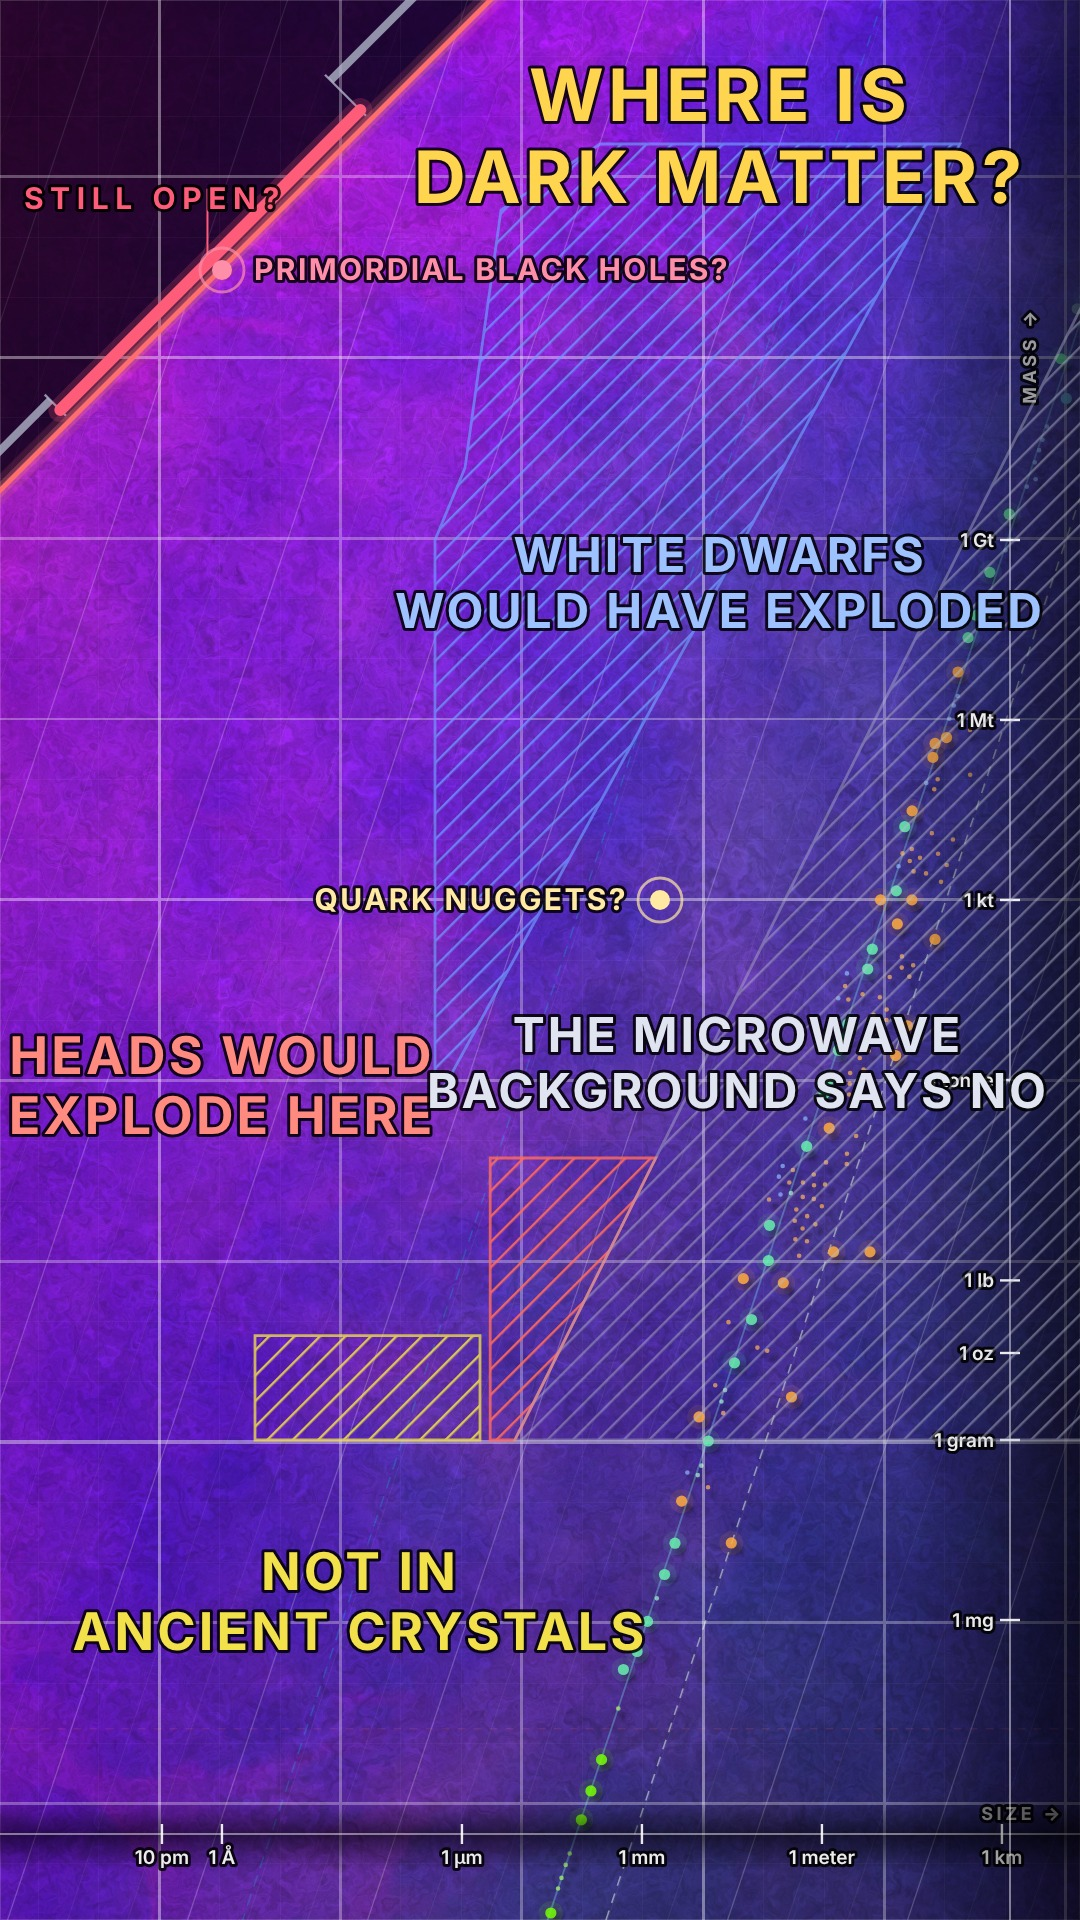
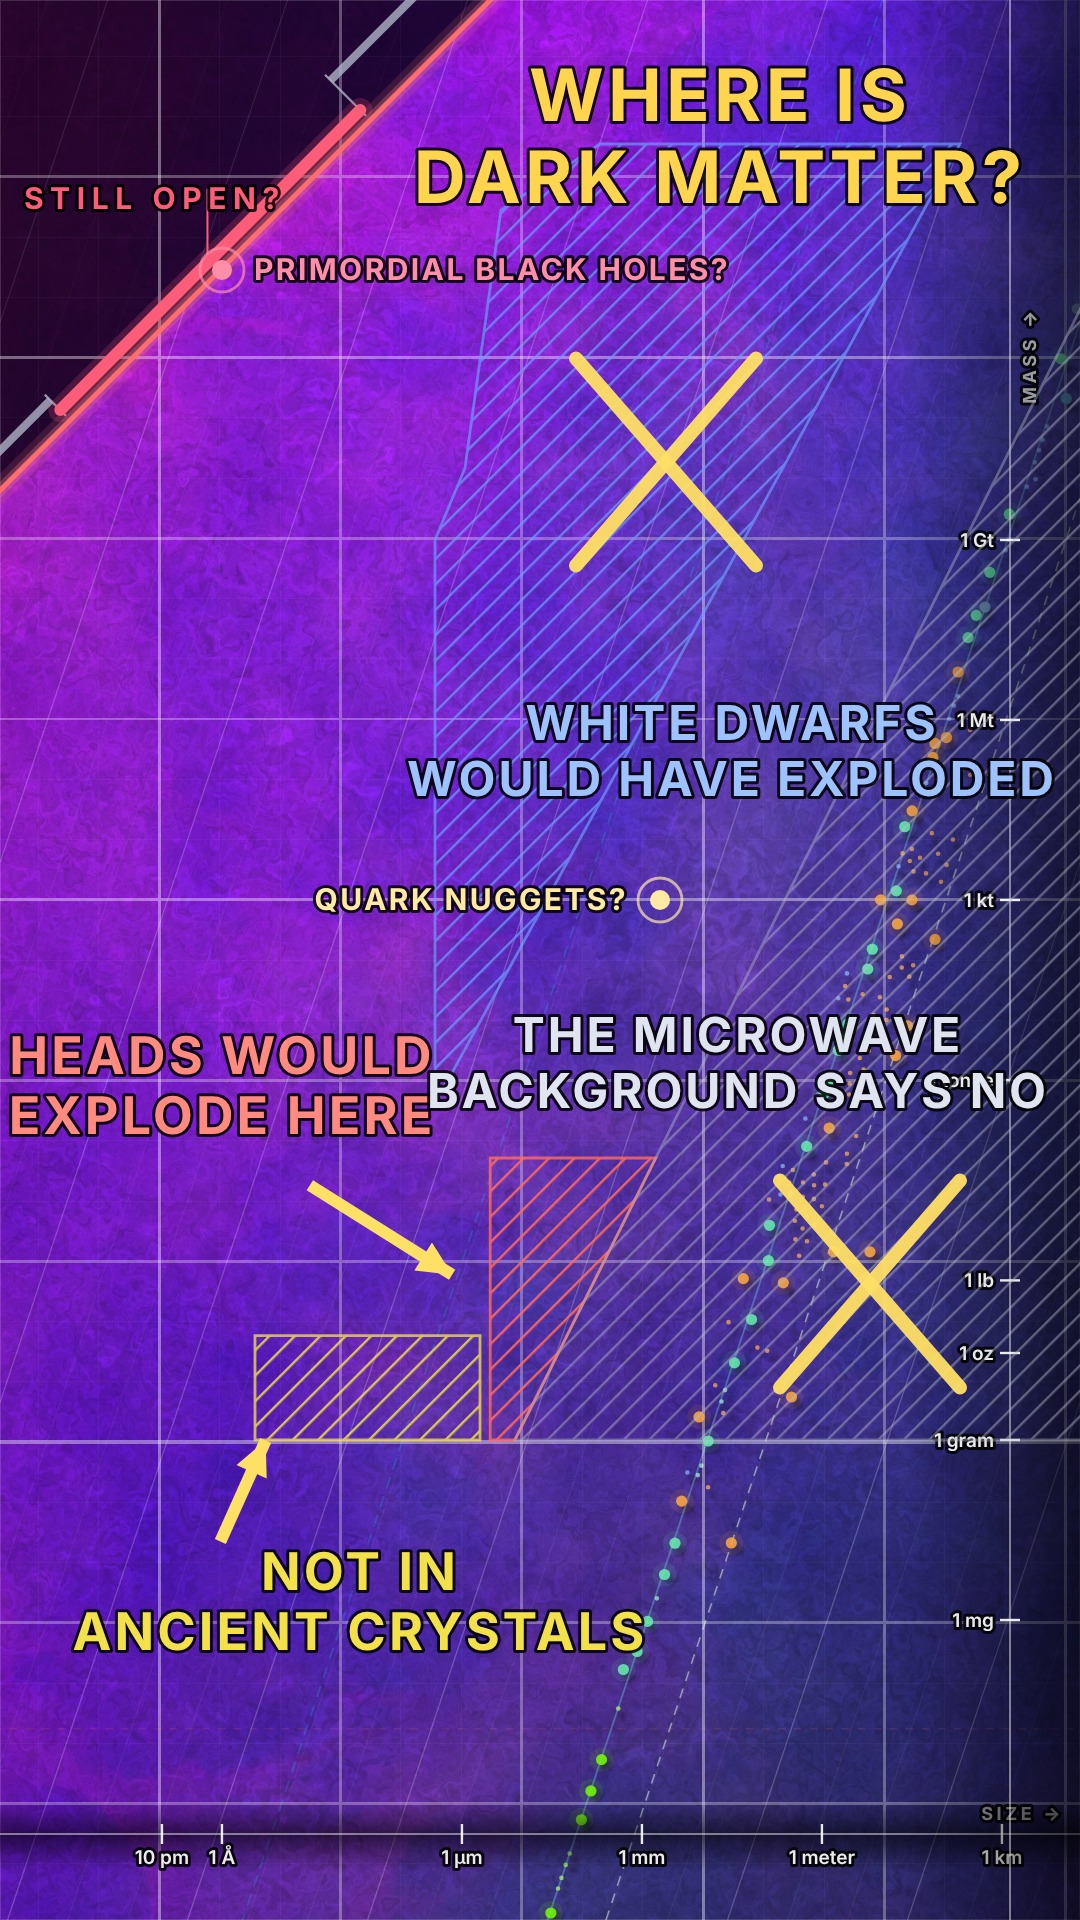
The Smallest Black Holes' thumbnail with the author's Xs and arrows (2026-11-10): an X over each big crossed-out area, an arrow from each text to its small box; a new `x` highlight for the player
Claude-Session: https://claude.ai/code/session_01Qy2VzivrCRd74kKLAXN9s3

diff --git a/src/narration.js b/src/narration.js
@@ -1090,6 +1090,7 @@ export async function startNarration(app) {
       else if (h.figText) drawFigText(el, h, age);
       else if (h.window) drawWindow(el, h, age);
       else if (h.cross) drawCross(el, h, t - (h.since ?? h.t0));
+      else if (h.x) drawX(el, h, age);
       else if (h.score) drawScore(el, h, age);
       else if (h.text) drawText(el, h, age);
       else if (h.pic) drawPic(el, h, age);
@@ -1870,6 +1871,17 @@ export async function startNarration(app) {
    *  color? } — a dot, with dashed guides out to the left edge (labelled with the
    *  mass) and down to the size ruler (labelled with the size), drawn out from the
    *  dot. */
+  /** A crossing-out: { x: [r, m], size?: px (56), color?, width? }: two bold strokes over a place, drawn in
+   *  (a hand's X over a crossed-off area: The Smallest Black Holes' thumbnail, the author, 2026-11-10). */
+  function drawX(el, h, age) {
+    const cx = sx(h.x[0]), cy = sy(h.x[1]), r = (h.size ?? 56) / 2, col = h.color || "#ffd54f", w = h.width ?? 7;
+    const k = h.instant ? 1 : d3.easeCubicOut(clamp01(age / 0.5));
+    const stroke = (x1, y1, x2, y2, kk) => el.append("line").attr("x1", x1).attr("y1", y1)
+      .attr("x2", x1 + (x2 - x1) * kk).attr("y2", y1 + (y2 - y1) * kk)
+      .attr("stroke", col).attr("stroke-width", w).attr("stroke-linecap", "round").attr("opacity", 0.95);
+    stroke(cx - r, cy - r * 1.15, cx + r, cy + r * 1.15, clamp01(k * 2));
+    if (k > 0.5) stroke(cx + r, cy - r * 1.15, cx - r, cy + r * 1.15, clamp01(k * 2 - 1));
+  }
   function drawCross(el, h, age) {
     const SH = layer.clientHeight;
     const x = sx(h.cross.r), y = sy(h.cross.m), col = h.color || "#ffd54f";

diff --git a/src/narration-scenes/short-04b-smallest-black-holes.js b/src/narration-scenes/short-04b-smallest-black-holes.js
@@ -68,8 +68,13 @@ export default {
     { text: "where is\ndark matter?", at: [0, 21.3], size: 36, color: "#ffd54f", instant: true },
     { text: "heads would\nexplode here", at: [-8.3, 5.6], size: 26, color: "#ff8a80", instant: true },
     { text: "not in\nancient crystals", at: [-6, -3], size: 26, color: "#f2e14a", instant: true },
-    { text: "white dwarfs\nwould have exploded", at: [0, 14], size: 24, color: "#9ec1ff", instant: true },
+    { text: "white dwarfs\nwould have exploded", at: [0.2, 11.2], size: 24, color: "#9ec1ff", instant: true },
     { text: "the microwave\nbackground says no", at: [0.3, 6], size: 24, color: "#e0e3f0", instant: true },
+    // a hand's Xs over the two big areas, and arrows from the two texts to their small boxes (the author's sketch, 2026-11-10)
+    { x: [-0.9, 16.3], size: 90, color: "#ffe066", instant: true },
+    { x: [2.5, 2.6], size: 90, color: "#ffe066", instant: true },
+    { arrow: true, solid: true, width: 6, color: "#ffe066", from: { r: -7.4, m: 4.6 }, to: { r: -3.9, m: 2.4 }, draw: 0.01 },
+    { arrow: true, solid: true, width: 6, color: "#ffe066", from: { r: -8.6, m: -2.3 }, to: { r: -7.3, m: 0.6 }, draw: 0.01 },
   ] }] },
   posterWide: undefined,
   cues: [
